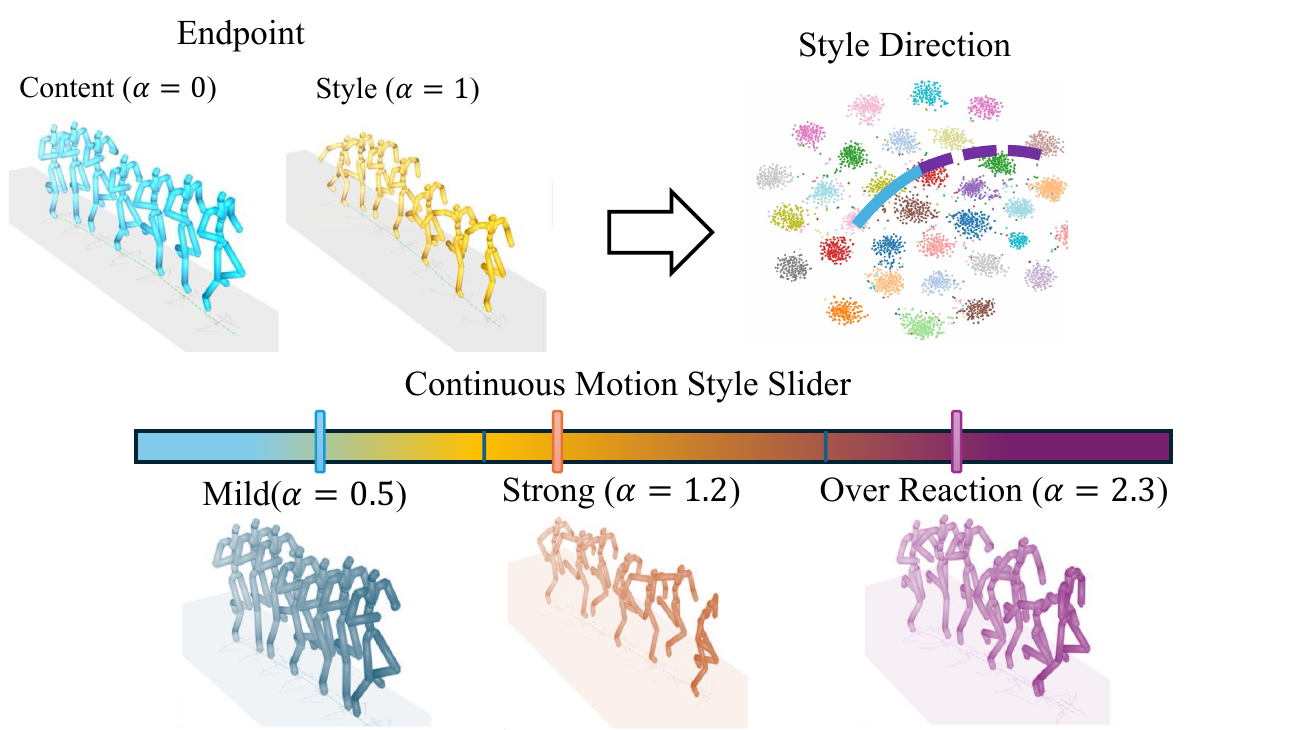
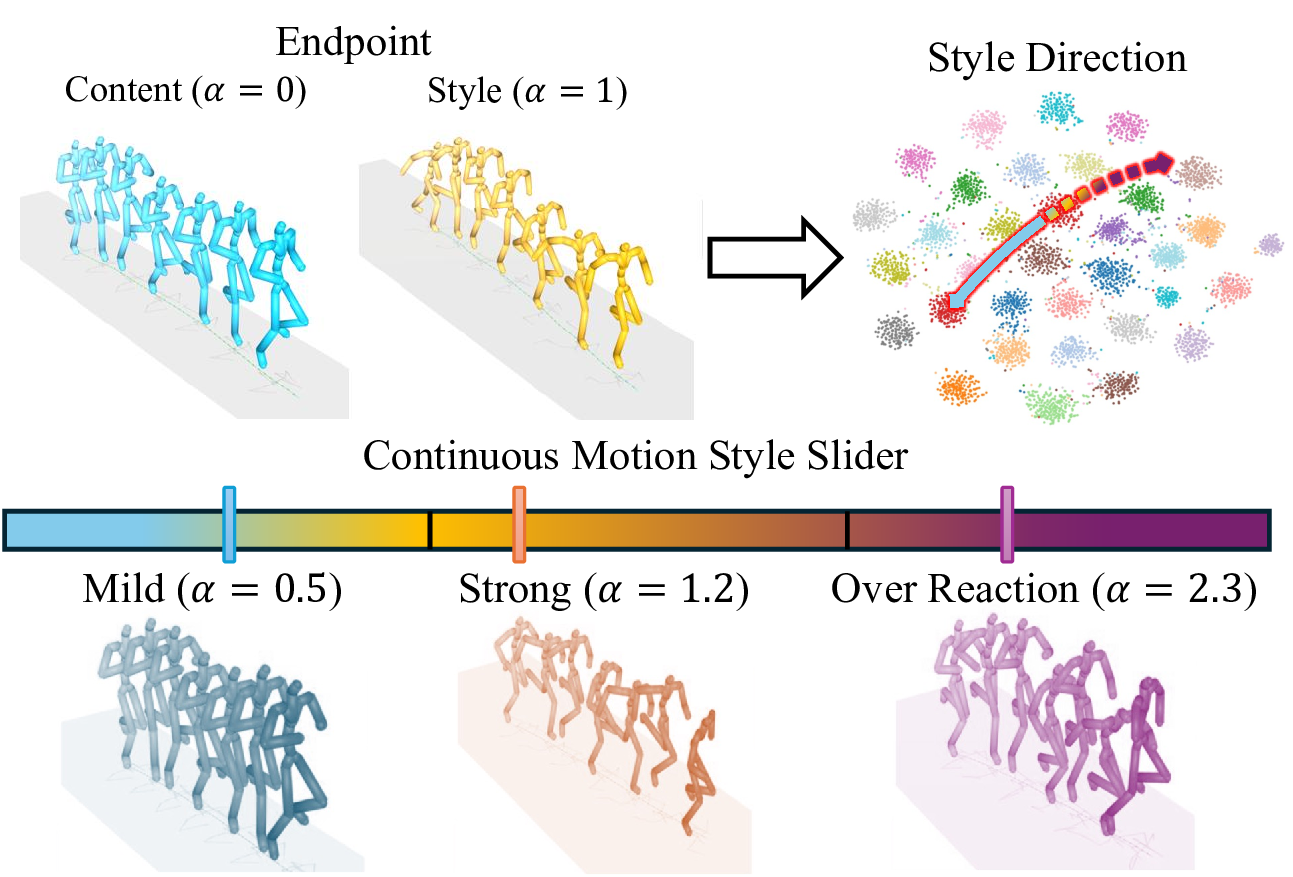
camera ready

Changed region(s): [[0.0, 0.4822, 0.9899, 0.9945], [0.0309, 0.0301, 0.9899, 0.4822], [0.2166, 0.4219, 0.2475, 0.4521]]

diff --git a/_projects/motion-style-slider.md b/_projects/motion-style-slider.md
@@ -62,6 +62,20 @@ _styles: |
 
   .mss-authors {
     font-size: 1rem;
+    line-height: 1.7;
+    margin-bottom: 0.8rem;
+  }
+
+  .mss-affiliations {
+    color: var(--mss-muted);
+    font-size: 0.94rem;
+    line-height: 1.65;
+    margin-bottom: 0.75rem;
+  }
+
+  .mss-note {
+    color: var(--mss-muted);
+    font-size: 0.88rem;
     margin-bottom: 1.5rem;
   }
 
@@ -90,11 +104,6 @@ _styles: |
     background: var(--mss-accent-dark);
     border-color: var(--mss-accent-dark);
     transform: translateY(-2px);
-  }
-
-  .mss-button-placeholder {
-    cursor: default;
-    opacity: 0.58;
   }
 
   .mss-teaser {
@@ -207,18 +216,28 @@ _styles: |
     <h1 class="mss-title">Motion Style Slider</h1>
     <p class="mss-subtitle">Endpoint-Supervised Continuous Style Control for Human Motion Diffusion</p>
     <p class="mss-authors">
-      <a href="https://liaochenchieh.com/" target="_blank" rel="noopener"><strong>Chen-Chieh Liao</strong></a>,
-      <a href="https://puckikk1202.github.io/" target="_blank" rel="noopener">Yichen Peng</a>,
-      Yiyi Cai, Yûi Ono, Hiroki Hanaokai,
-      <a href="https://erwinwu.com/" target="_blank" rel="noopener">Erwin Wu</a>,
-      <a href="https://www.vogue.cs.titech.ac.jp/koike" target="_blank" rel="noopener">Hideki Koike</a>,
+      <a href="https://liaochenchieh.com/" target="_blank" rel="noopener"><strong>Chen-Chieh Liao</strong></a><sup>1,3,*</sup>,
+      <a href="https://puckikk1202.github.io/" target="_blank" rel="noopener">Yichen Peng</a><sup>1</sup>,
+      Yiyi Cai<sup>2</sup>,
+      <a href="https://orcid.org/0000-0002-8243-7753" target="_blank" rel="noopener">Yûi Ono</a><sup>3</sup>,
+      <a href="https://orcid.org/0000-0001-8286-5013" target="_blank" rel="noopener">Hiroki Hanaoka</a><sup>3</sup>,
+      <a href="https://erwinwu.com/" target="_blank" rel="noopener">Erwin Wu</a><sup>1</sup>,
+      <a href="https://www.vogue.cs.titech.ac.jp/koike" target="_blank" rel="noopener">Hideki Koike</a><sup>1</sup>,
       and
-      <a href="https://www.linkedin.com/in/shuichi-kurabayashi-b6467123/" target="_blank" rel="noopener">Shuichi Kurabayashi</a>
+      <a href="https://orcid.org/0000-0001-5967-7727" target="_blank" rel="noopener">Shuichi Kurabayashi</a><sup>3</sup>
+    </p>
+    <p class="mss-affiliations">
+      <sup>1</sup>Institute of Science Tokyo &nbsp;&nbsp;
+      <sup>2</sup>The University of Tokyo &nbsp;&nbsp;
+      <sup>3</sup>Cygames, Inc.
+    </p>
+    <p class="mss-note">
+      <sup>*</sup>The work was partially done during an internship at Cygames, Inc.
     </p>
     <div class="mss-actions">
-      <span class="mss-button mss-button-placeholder" aria-disabled="true">
-        <i class="fa-solid fa-file-pdf"></i> Paper coming soon
-      </span>
+      <a class="mss-button" href="{{ '/assets/pdf/motion-style-slider-eccv-2026.pdf' | relative_url }}" target="_blank" rel="noopener">
+        <i class="fa-solid fa-file-pdf"></i> Paper
+      </a>
     </div>
     <img
       class="mss-teaser"
@@ -233,8 +252,8 @@ _styles: |
       Motion Style Slider is a motion-to-motion diffusion framework for fine-grained control of style intensity.
       Given a content motion and a stylized endpoint, the model generates a continuous family of motions controlled
       by a scalar value, from neutral behavior through the target style and into stronger out-of-range reactions.
-      The control is relative and monotonic, matching the way animators naturally ask for a motion to be “a little
-      more” or “a little less” expressive.
+      The control is relative and monotonic, matching the way artists and directors naturally ask for a motion to be
+      “a little more” or “a little less” expressive.
     </p>
 
     <div class="mss-points">
@@ -293,16 +312,26 @@ _styles: |
         Qualitative comparisons with representative motion-style transfer baselines at multiple style intensities.
       </figcaption>
     </figure>
+
+    <figure class="mss-figure">
+      <img
+        src="{{ '/assets/img/motion-style-slider/cross-content.png' | relative_url }}"
+        alt="Cross-content qualitative results for Motion Style Slider."
+        loading="lazy"
+      >
+      <figcaption>
+        Cross-content stylization examples showing the same style-control mechanism across different source motions.
+      </figcaption>
+    </figure>
   </section>
 
   <section class="mss-section">
     <h2>Citation</h2>
-    <p>The proceedings information will be updated with the camera-ready release.</p>
     <pre class="mss-citation"><code>@inproceedings{liao2026motionstyleslider,
   title     = {Motion Style Slider: Endpoint-Supervised Continuous
                Style Control for Human Motion Diffusion},
   author    = {Liao, Chen-Chieh and Peng, Yichen and Cai, Yiyi and
-               Ono, Yûi and Hanaokai, Hiroki and Wu, Erwin and
+               Ono, Yûi and Hanaoka, Hiroki and Wu, Erwin and
                Koike, Hideki and Kurabayashi, Shuichi},
   booktitle = {European Conference on Computer Vision (ECCV)},
   year      = {2026}